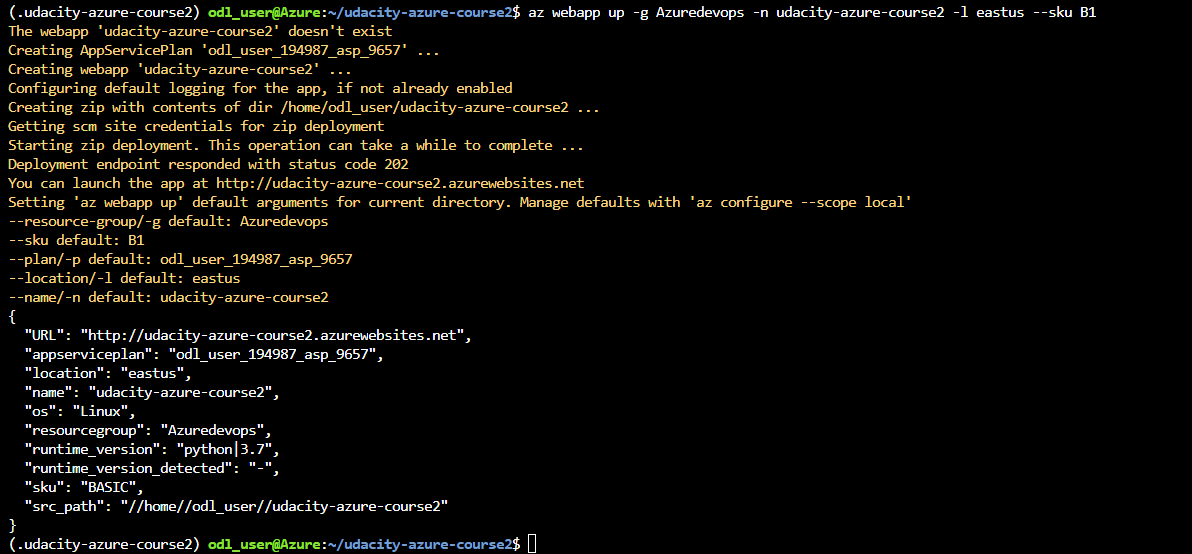
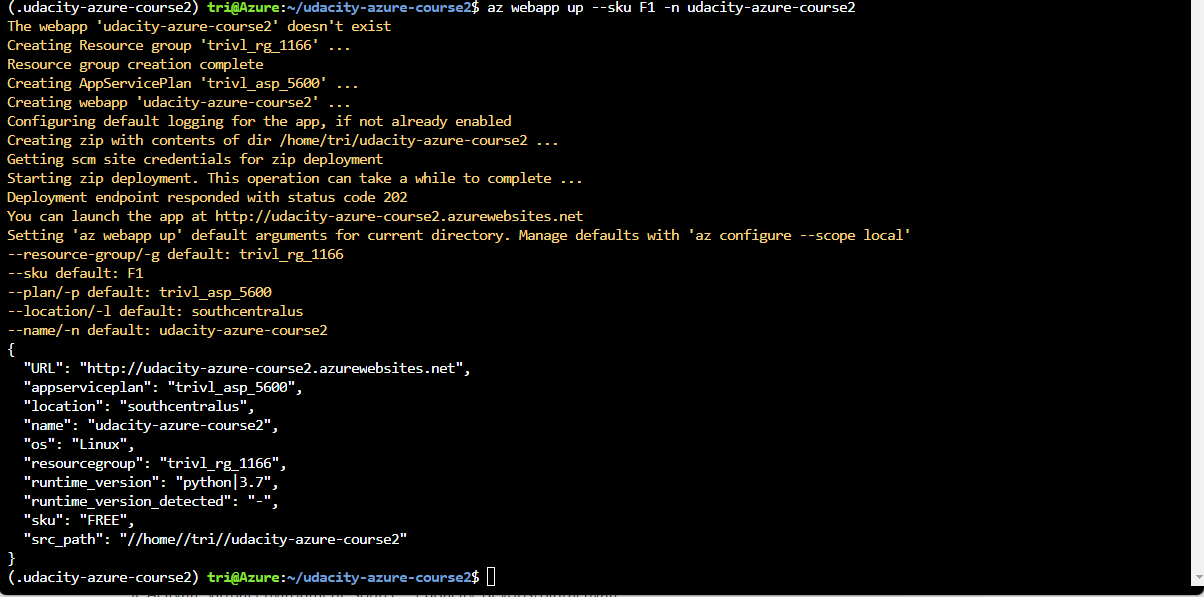
update

Changed region(s): [[0.0, 0.0, 1.0, 1.0]]

diff --git a/README.md b/README.md
@@ -14,15 +14,6 @@
 ## Architectural Diagram
 ![](images/0_architecture.png)
 
-## Project running on Azure App Service
-* Go to https://portal.azure.com/#cloudshell/
-* Run command to create webapp:
-```
-az webapp up -g Azuredevops -n udacity-azure-course2 -l eastus --sku B1
-```
-* Confirm webapp is created successfully
-![](images/1_create_webapp.png)
-
 ## Project cloned into Azure Cloud Shell
 * Go to https://portal.azure.com/#cloudshell/ and run command:
 ```
@@ -48,9 +39,57 @@ cd udacity-azure-course2
 make all
 ```
 ![](images/3_make_all.png)
-* Output of a test run
+* The following commands can be run in order to then test and start the application:
+```
+export FLASK_APP=app.py
+flask run
+```
+![](images/4_app_running_locally.png)
+## Project running on Azure App Service
+* Go to https://portal.azure.com/#cloudshell/
+* Run command to create webapp:
+```
+az webapp up --sku F1 -n udacity-azure-course2
+```
+* Confirm webapp is created successfully
+![](images/1_create_webapp.png)
 
-* Successful deploy of the project in Azure Pipelines.  [Note the official documentation should be referred to and double checked as you setup CI/CD](https://docs.microsoft.com/en-us/azure/devops/pipelines/ecosystems/python-webapp?view=azure-devops).
+    Confirm app is up and running
+    ```
+    https://udacity-azure-course2.azurewebsites.net
+    ```
+![](images/5_app_running.png)
+## Configure GitHub Actions
+* GitHub > Actions > set up a workflow yourself
+```
+name: Python application test with Github Actions
+
+on: [push]
+
+jobs:
+  build:
+
+    runs-on: ubuntu-latest
+
+    steps:
+    - uses: actions/checkout@v3
+    - name: Set up Python 3.7
+      uses: actions/setup-python@v1
+      with:
+        python-version: 3.7
+    - name: Install dependencies
+      run: |
+        make install
+    - name: Lint with pylint
+      run: |
+        make lint
+    - name: Test with pytest
+      run: |
+        make test
+```
+![](images/6_Github_action.png)
+## Configure Azure Pipeline
+[Note the official documentation should be referred to and double checked asyou setup CI/CD](https://docs.microsoft.com/en-us/azure/devops/pipelinesecosystems/python-webapp?view=azure-devops).
 
 * Running Azure App Service from Azure Pipelines automatic deployment
 
@@ -58,9 +97,9 @@ make all
 The output should look similar to this:
 
 ```bash
-udacity@Azure:~$ ./make_predict_azure_app.sh
+(.udacity-azure-course2) tri@Azure:~/udacity-azure-course2$ sh make_predict_azure_app.sh
 Port: 443
-{"prediction":[20.35373177134412]}
+{"prediction":[20.35373177134412]
 ```
 
 * Output of streamed log files from deployed application
